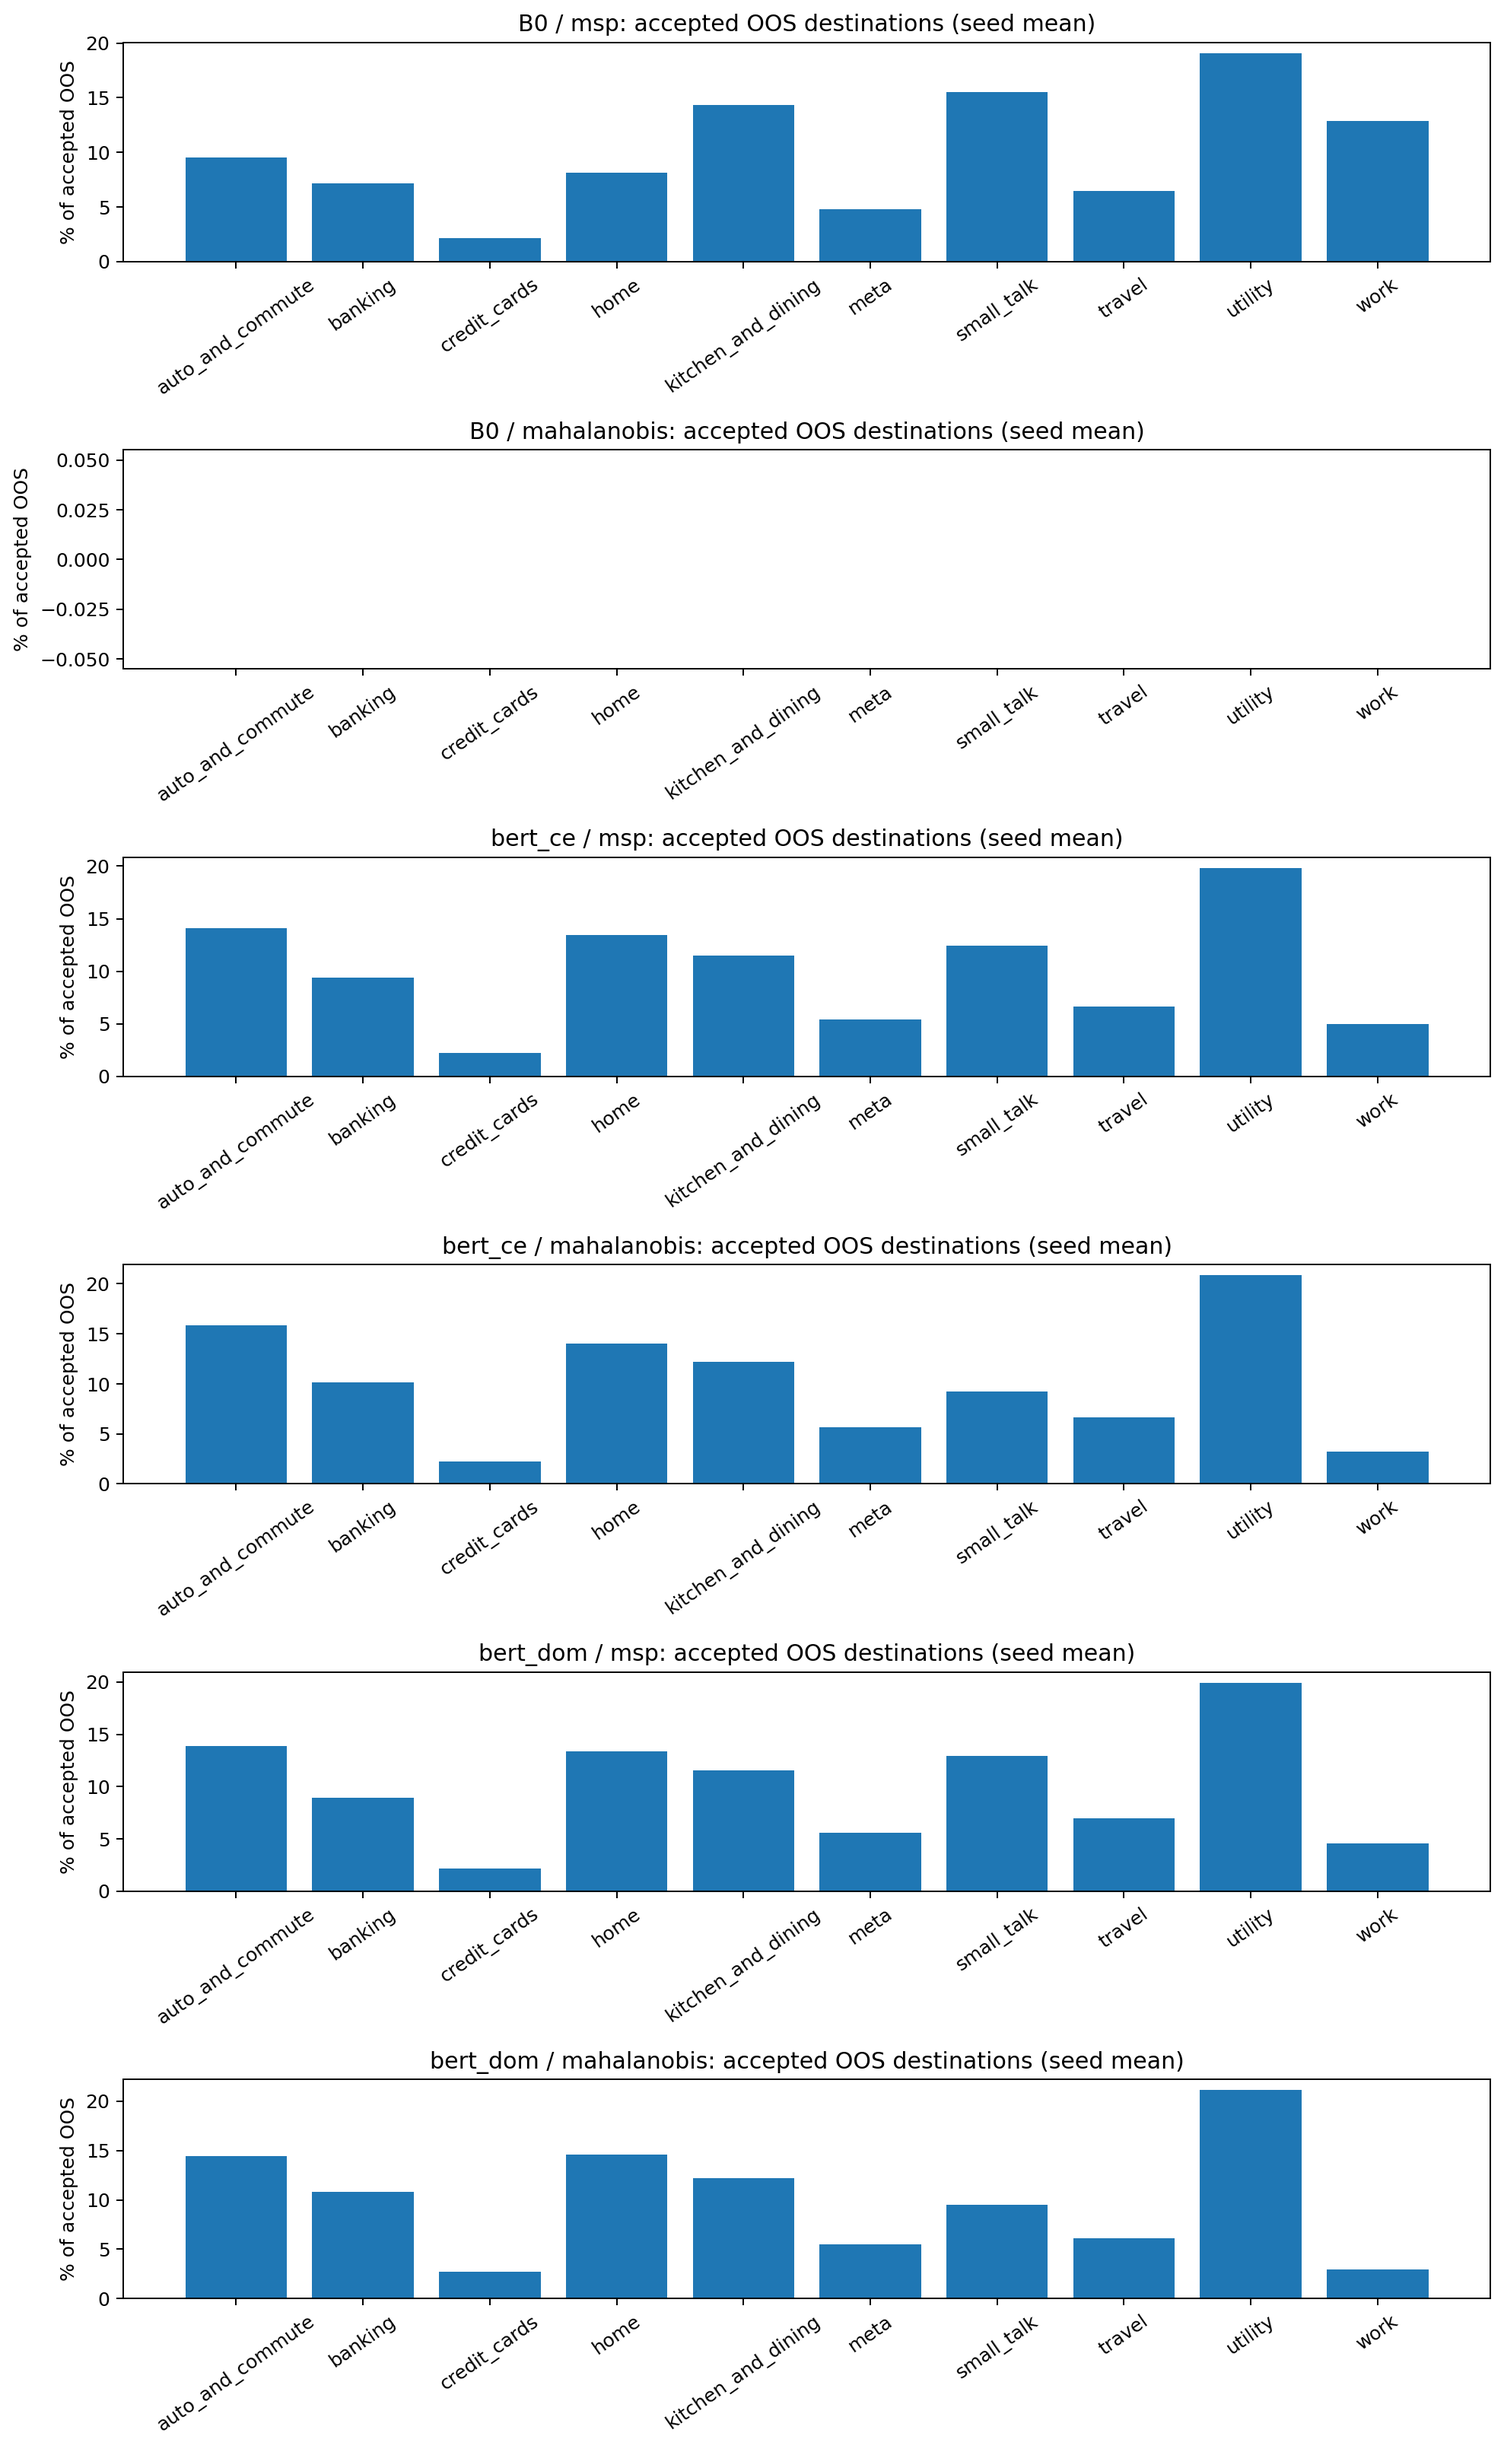
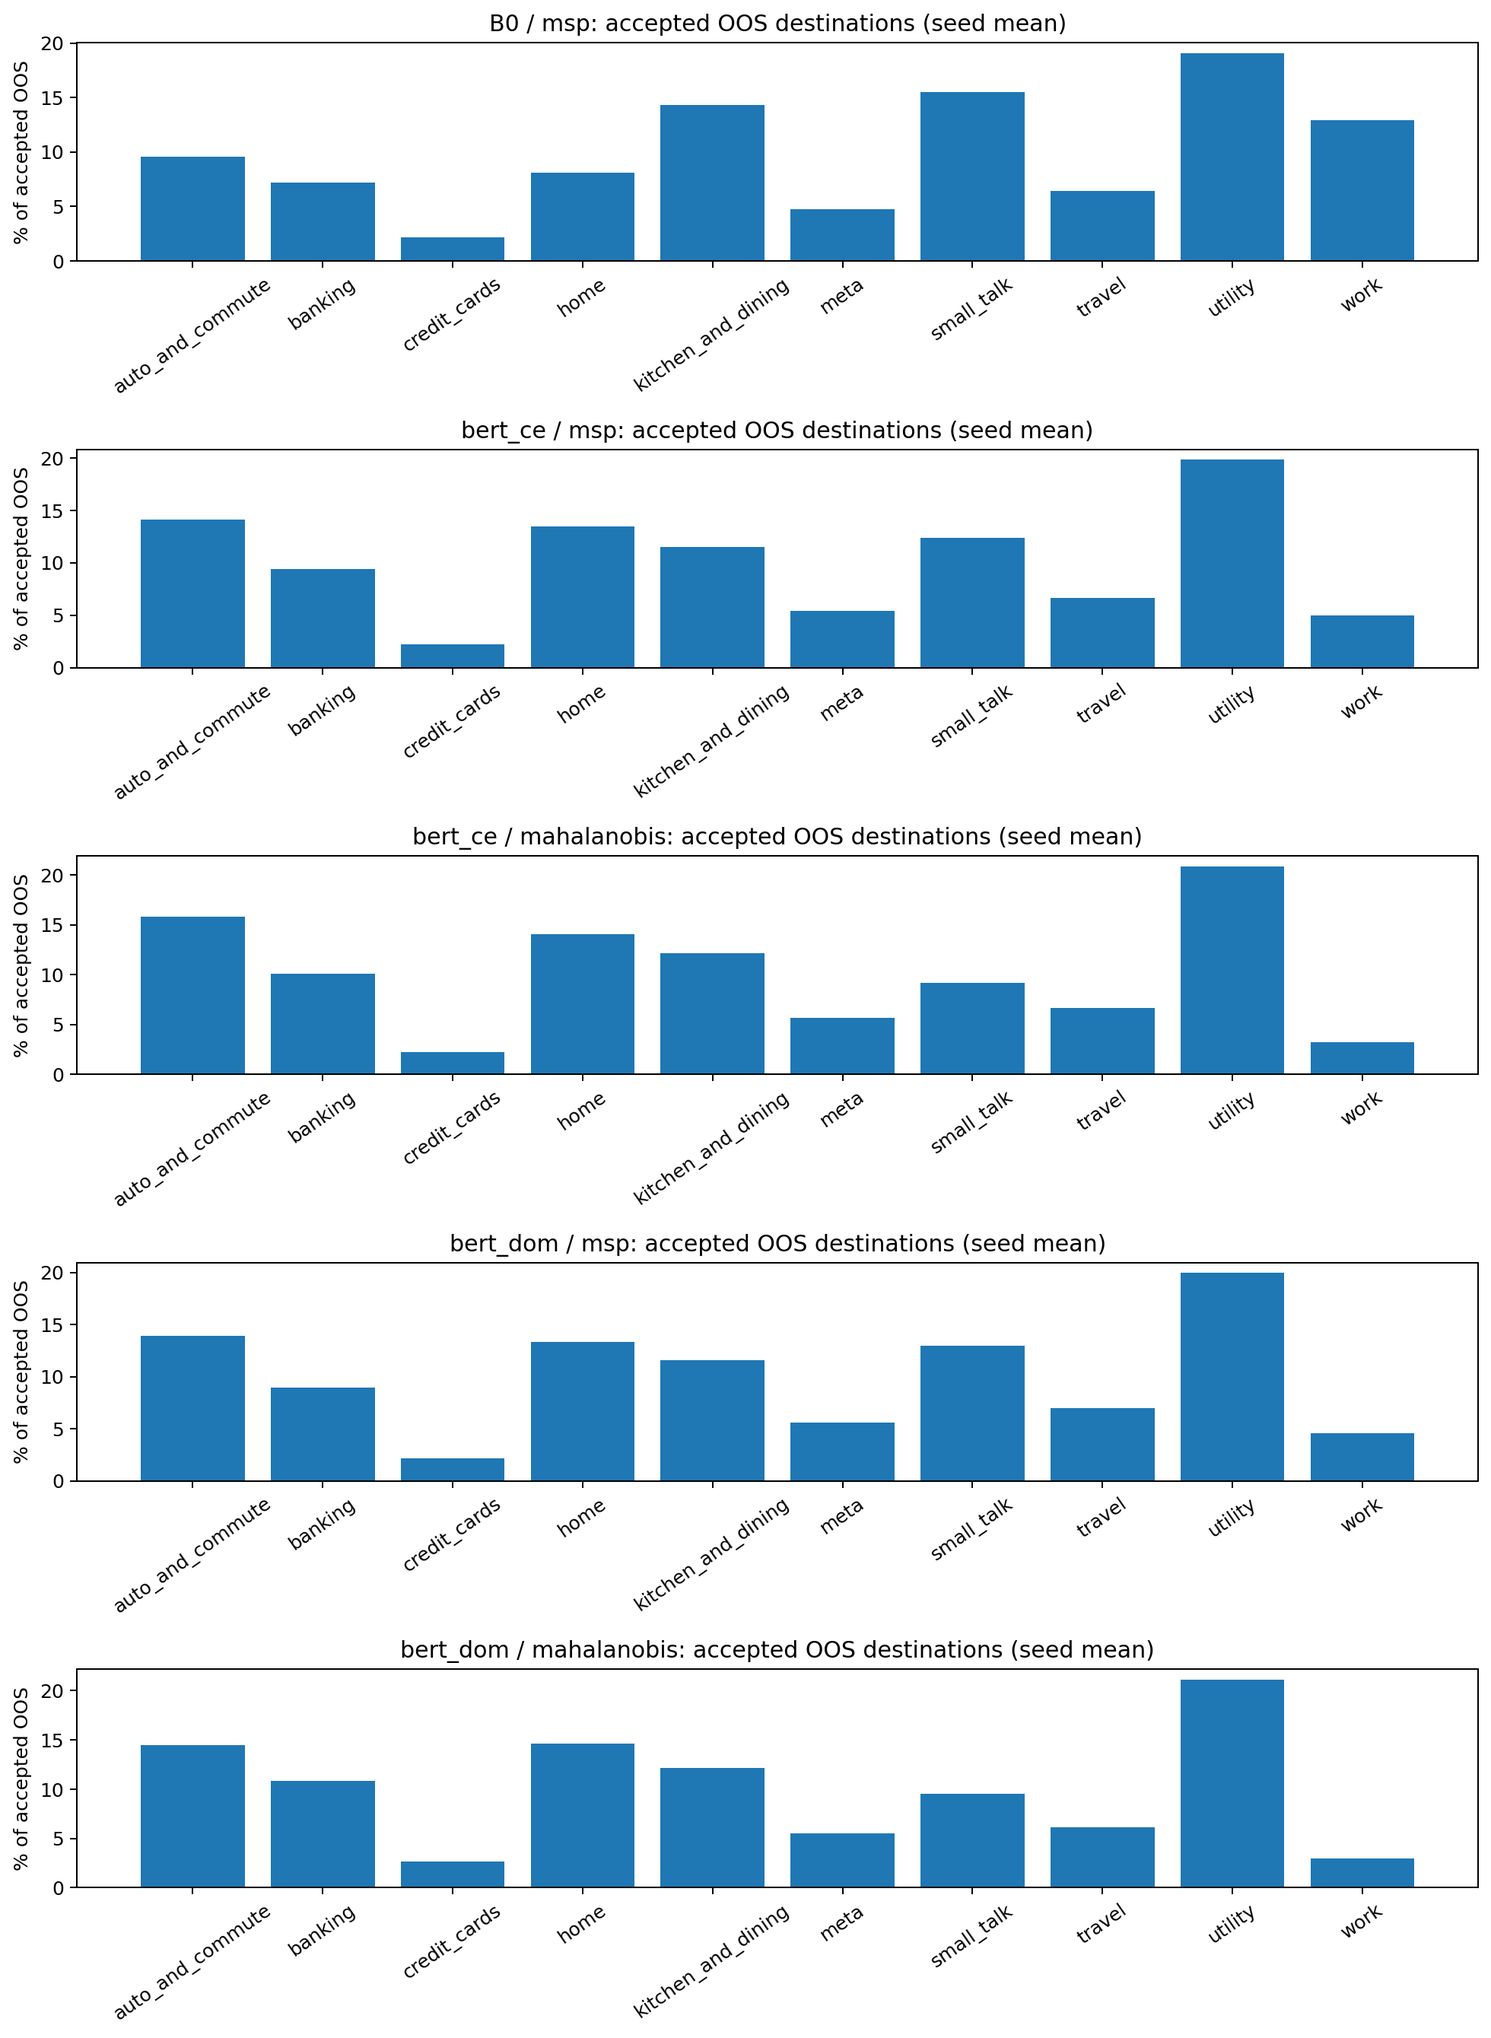
Fix OOS analysis and review error cases

diff --git a/00_docs/05_change_log.md b/00_docs/05_change_log.md
@@ -59,7 +59,7 @@
 
 ## 2026-10-24 E5 批准与单次 test 许可
 
-1. 导师通过学生转达明确下一步指示，批准填写冻结信息并依次运行 J02、S07、S08。`04_frozen.yaml` 已如实记录 confirmed_by、confirmed_at 和证据；证据是项目对话中的导师指示转述，不虚构外部审批文件。
+1. 导师通过学生转达明确下一步指示，批准填写冻结信息并依次运行 J02、S07、S08。`04_frozen.yaml` 已如实记录 confirmed_by、confirmed_at 和证据；证据是项目对话中的导师指示转述，不虚构外部审批文件。导师原始批准评论见 <https://github.com/Ling3255/MFE310/issues/1#issuecomment-6382811270>（09:57Z），冻结信息填写于 10:00Z，test 评估于 10:02Z。
 2. `evaluation.primary_fpr95` 和 `secondary_fpr95` 是在 S05 生成冻结配置后手工加入的字段，用于落实 E6 前的 IS 正类主指标决定；检测器、阈值和模型未因此改变。
 3. `01_requirements.in` 已注明正式本地 GPU 运行的实际包版本以 `04_trans_freeze.txt` 为准。
 
@@ -70,3 +70,10 @@
 3. CE/Dom 平均跨领域错误率分别为 0.0177777778/0.0162222222，同领域错误率分别为 0.0228148148/0.0226666667。分类改善与跨领域错误减少一致，但幅度小，需结合种子波动和区间条件解释。
 4. S08 已生成领域混淆、每领域意图 F1、领域 F1、互斥错误图、两种排序的 top-15、OOS 误接纳去向和 9 条案例。seed 0 修复池 17 条、退化池 4 条，因此修复案例 5 条、退化案例全部 4 条；解释字段留待人工分析，不由程序自动编造。
 5. 正式结果按冻结协议下的一次性评估报告。小组历史 test 访问、三个种子、验证集重复选择和 bootstrap 区间限制仍需在报告中披露。
+
+## 2026-10-24 PR #3 OOS 分析修复与案例复核
+
+1. 合并 PR #3，修复 B0 没有 Mahalanobis 时空值被误当成拒绝的问题。只重跑 S08，未重跑 S06/J02/S07，冻结配置和保存的 test 预测未修改。
+2. 新 `oos_false_acceptance_summary.csv` 只有 B0/MSP，不再包含虚假的 B0/Mahalanobis 零误接纳行；检测去向表和图同步更新。trans 环境测试为 **20 passed**。
+3. 9 条 seed-0 案例的 interpretation 已逐条人工复核并同时写入 CSV/JSON，区分同领域修复、跨领域修复、同领域退化和跨领域退化。解释仅限具体案例，不作为普遍因果结论。
+4. 报告口径保持：改进小幅且方向一致但证据有限；主要收益来自跨领域错误减少；OOS 结果好坏参半且没有区间估计；固定阈值迁移后的 IS 接纳率约 94.4%–95.1%，不得事后调阈值。
